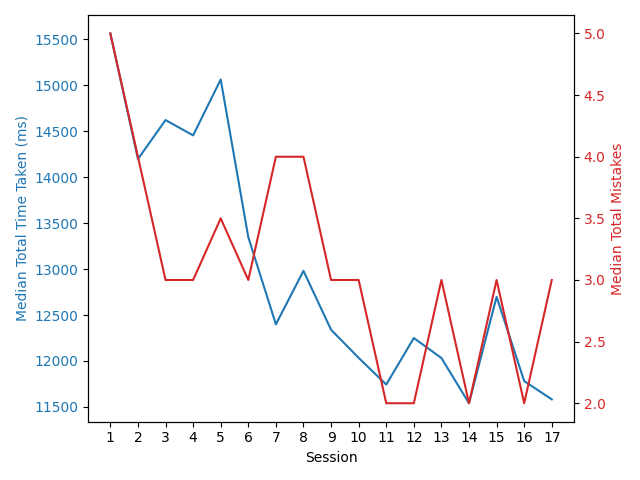
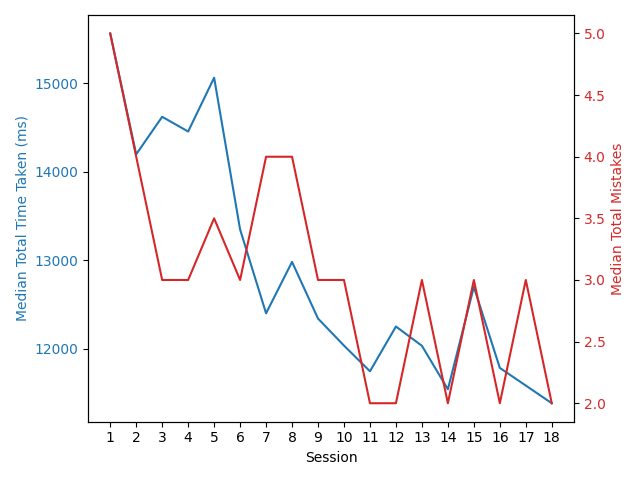
Session 18

diff --git a/analysis/generate_session_data.py b/analysis/generate_session_data.py
@@ -6,26 +6,23 @@ from generate_lm import generate_lm
 from generate_rolling import generate_rolling
 
 
-session_ID = "17"
+session_ID = "18"
 
-for i in range(1, 18):
-    session_ID = str(i)
-
-    localStorage_to_raw(session_ID)
-    raw_to_session(session_ID)
-    generate_text_summary(session_ID)
-    for i in range(10, 51, 10):
-        generate_rolling(session_ID, i)
-    generate_lm(
-        predictor="Total Mistakes",
-        response="Total Time Taken (ms)",
-        session_ID=session_ID,
-        output_folder_name="time_given_mistakes",
-    )
-    generate_lm(
-        predictor="Layout Difficulty",
-        response="Total Time Taken (ms)",
-        session_ID=session_ID,
-        output_folder_name="time_given_diff",
-    )
-    generate_plots(session_ID=session_ID)
+localStorage_to_raw(session_ID)
+raw_to_session(session_ID)
+generate_text_summary(session_ID)
+for i in range(10, 51, 10):
+    generate_rolling(session_ID, i)
+generate_lm(
+    predictor="Total Mistakes",
+    response="Total Time Taken (ms)",
+    session_ID=session_ID,
+    output_folder_name="time_given_mistakes",
+)
+generate_lm(
+    predictor="Layout Difficulty",
+    response="Total Time Taken (ms)",
+    session_ID=session_ID,
+    output_folder_name="time_given_diff",
+)
+generate_plots(session_ID=session_ID)

diff --git a/analysis/generate_agg_data.py b/analysis/generate_agg_data.py
@@ -103,7 +103,7 @@ def generate_agg_data(sessions):
     print("Aggregate data generated successfully.")
 
 
-upr = 18
+upr = 19
 
 generate_agg_data([str(i) for i in range(1, upr)])
 generate_lm(
